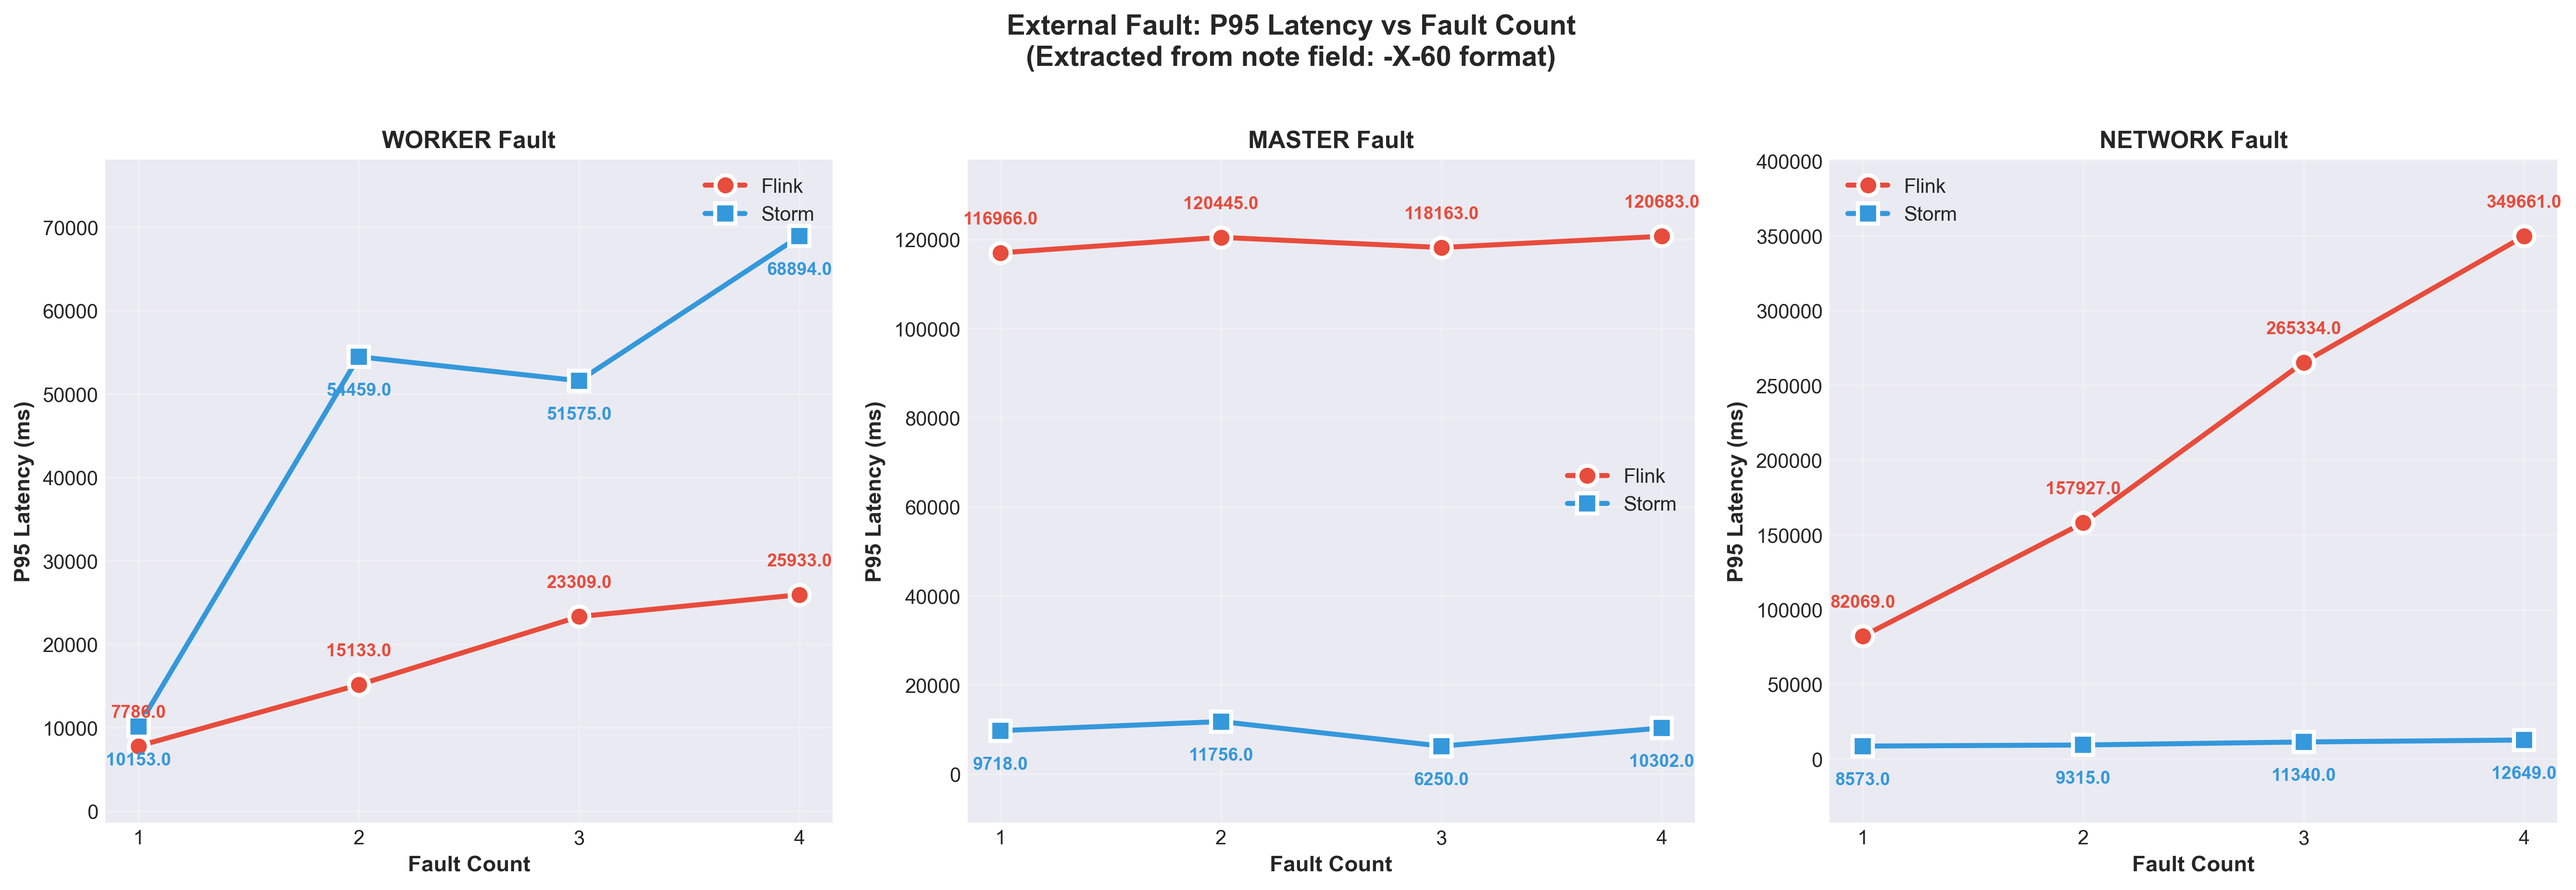
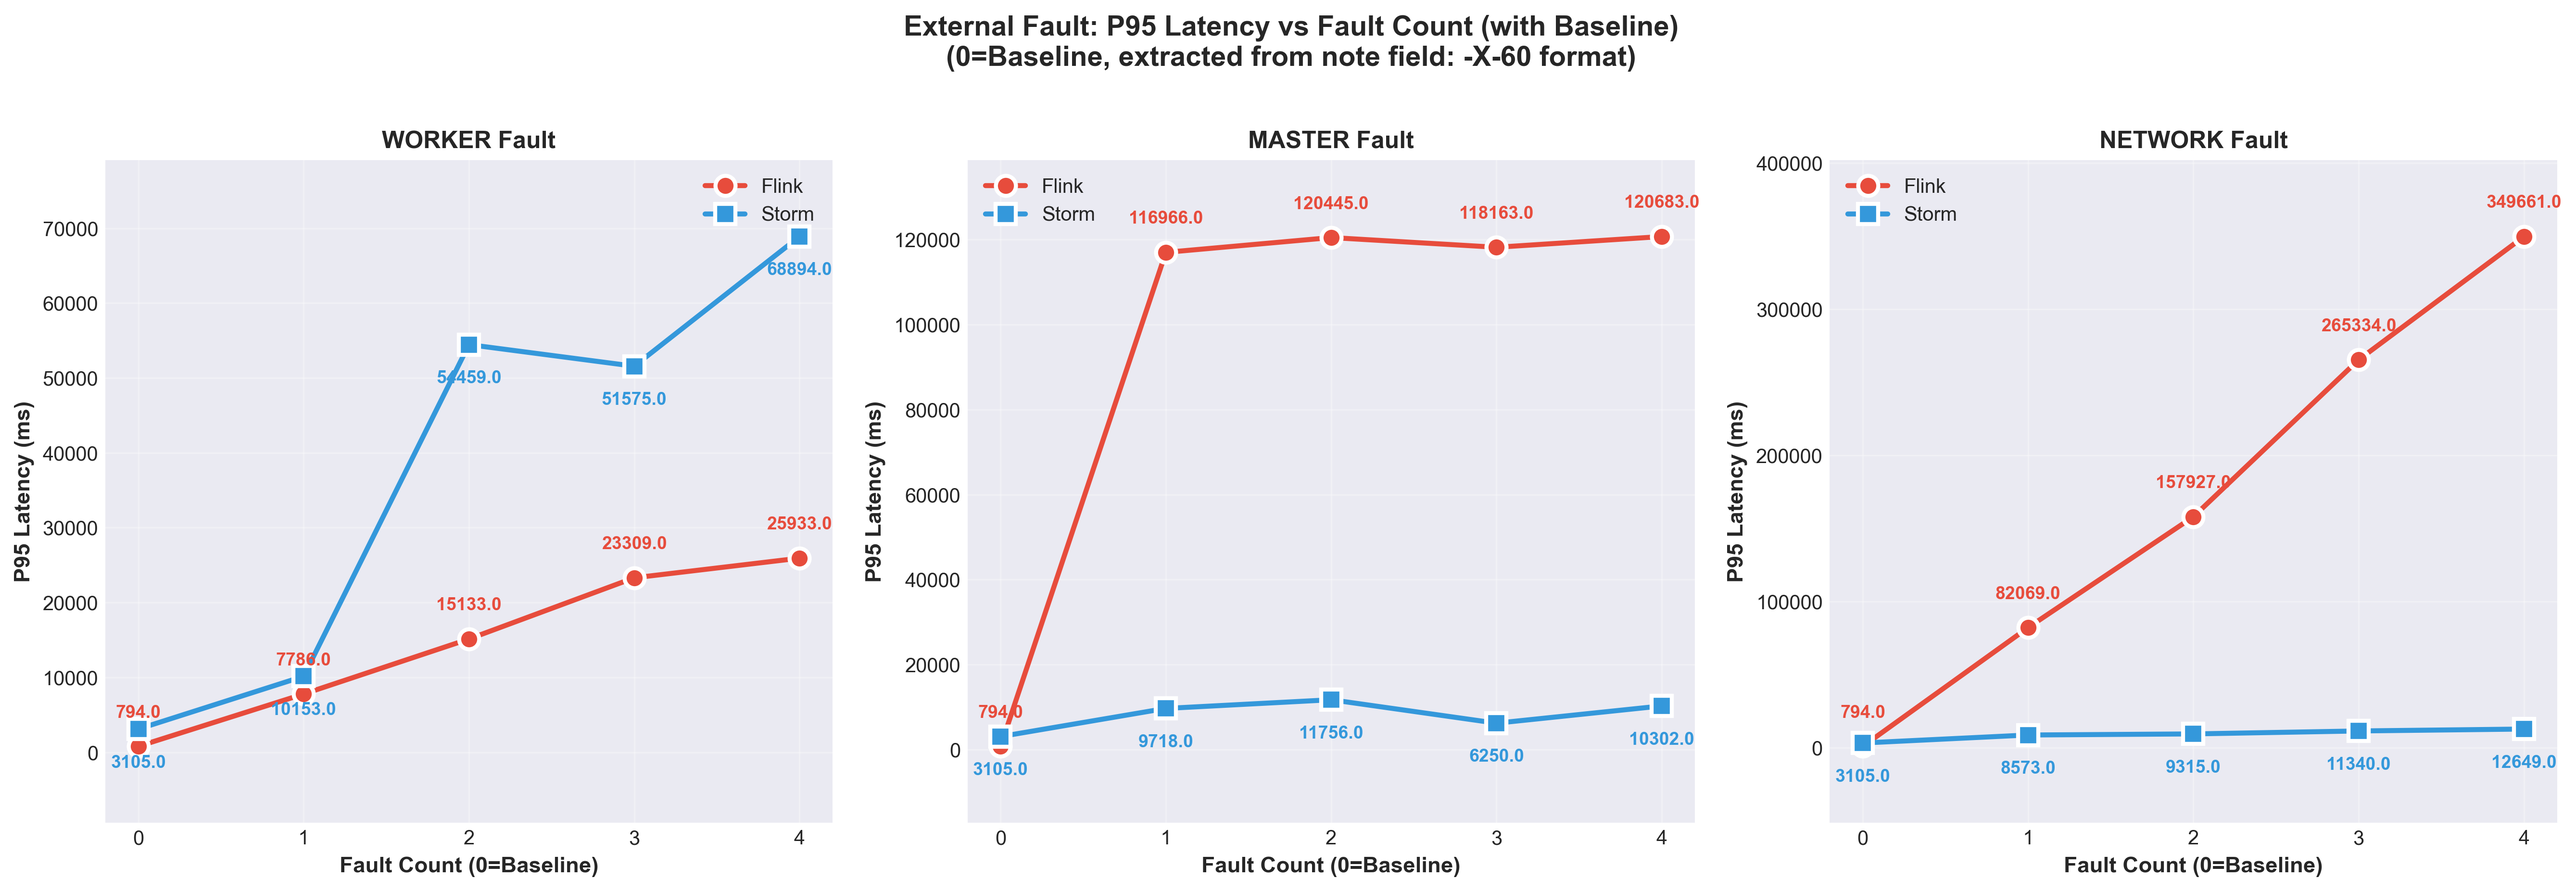
修改报告

diff --git a/data/analyze_experiment_results.py b/data/analyze_experiment_results.py
@@ -1033,19 +1033,40 @@ class ExperimentAnalyzer:
         plt.close()
 
     def plot_external_fault_p95_latency_by_count(self):
-        """图表9: 外部故障延迟对比 vs 故障次数（融合平均/P95/P99）"""
+        """图表9: 外部故障P95延迟 vs 故障次数（折线图，包含基线）"""
         if not self.external_fault_data:
             return
-        print("\n📈 生成图表9: 外部故障延迟对比 vs 故障次数（融合图）...")
-        self._plot_combined_latency_by_count()
+        print("\n📈 生成图表9: 外部故障P95延迟 vs 故障次数...")
+        self._plot_single_latency_by_count(
+            "p95_latency",
+            "P95 Latency (ms)",
+            "09_external_fault_p95_latency_by_count.png",
+            "External Fault: P95 Latency vs Fault Count",
+        )
 
     def plot_external_fault_p99_latency_by_count(self):
-        """图表10: 外部故障P99延迟 vs 故障次数（折线图）- 已合并到图表9"""
-        pass  # 功能已合并到 plot_external_fault_p95_latency_by_count
+        """图表10: 外部故障P99延迟 vs 故障次数（折线图，包含基线）"""
+        if not self.external_fault_data:
+            return
+        print("\n📈 生成图表10: 外部故障P99延迟 vs 故障次数...")
+        self._plot_single_latency_by_count(
+            "p99_latency",
+            "P99 Latency (ms)",
+            "10_external_fault_p99_latency_by_count.png",
+            "External Fault: P99 Latency vs Fault Count",
+        )
 
     def plot_external_fault_avg_latency_by_count(self):
-        """图表11: 外部故障平均延迟 vs 故障次数（折线图）- 已合并到图表9"""
-        pass  # 功能已合并到 plot_external_fault_p95_latency_by_count
+        """图表11: 外部故障平均延迟 vs 故障次数（折线图，包含基线）"""
+        if not self.external_fault_data:
+            return
+        print("\n📈 生成图表11: 外部故障平均延迟 vs 故障次数...")
+        self._plot_single_latency_by_count(
+            "avg_latency",
+            "Avg Latency (ms)",
+            "11_external_fault_avg_latency_by_count.png",
+            "External Fault: Avg Latency vs Fault Count",
+        )
 
     def plot_external_fault_throughput_by_count(self):
         """图衐12: 外部故障吞吐量 vs 故障次数（折线图）"""
@@ -1241,6 +1262,143 @@ class ExperimentAnalyzer:
         print(
             f"  ✓ 保存: {self.output_dir / '09_external_fault_latency_combined_by_count.png'}"
         )
+        plt.close()
+
+    def _plot_single_latency_by_count(self, metric_name, ylabel, filename, title):
+        """单个延迟指标的按故障次数绘制（包含基线数据）"""
+        fig, axes = plt.subplots(1, 3, figsize=(18, 6))
+
+        # 获取基线数据
+        flink_baseline_value = None
+        storm_baseline_value = None
+
+        if self.baseline_data is not None:
+            flink_baseline = self.baseline_data[
+                self.baseline_data["job_type"] == "flink"
+            ].iloc[0]
+            storm_baseline = self.baseline_data[
+                self.baseline_data["job_type"] == "storm"
+            ].iloc[0]
+
+            flink_baseline_value = flink_baseline[metric_name]
+            storm_baseline_value = storm_baseline[metric_name]
+
+        for idx, (fault_type, data) in enumerate(self.external_fault_data.items()):
+            ax = axes[idx]
+
+            flink_df = data["flink"].copy()
+            flink_df["fault_count"] = flink_df["note"].apply(self.extract_fault_count)
+            flink_grouped = (
+                flink_df.groupby("fault_count")[metric_name].mean().sort_index()
+            )
+
+            storm_df = data["storm"].copy()
+            storm_df["fault_count"] = storm_df["note"].apply(self.extract_fault_count)
+            storm_grouped = (
+                storm_df.groupby("fault_count")[metric_name].mean().sort_index()
+            )
+
+            # 添加基线数据（0次故障）
+            if flink_baseline_value is not None:
+                flink_grouped = pd.concat(
+                    [pd.Series([flink_baseline_value], index=[0]), flink_grouped]
+                )
+                storm_grouped = pd.concat(
+                    [pd.Series([storm_baseline_value], index=[0]), storm_grouped]
+                )
+
+            # 绘制折线图
+            if len(flink_grouped) > 0:
+                ax.plot(
+                    flink_grouped.index,
+                    flink_grouped.values,
+                    "o-",
+                    color=FLINK_COLOR,
+                    linewidth=2.5,
+                    markersize=10,
+                    label="Flink",
+                    markeredgecolor="white",
+                    markeredgewidth=2,
+                )
+
+            if len(storm_grouped) > 0:
+                ax.plot(
+                    storm_grouped.index,
+                    storm_grouped.values,
+                    "s-",
+                    color=STORM_COLOR,
+                    linewidth=2.5,
+                    markersize=10,
+                    label="Storm",
+                    markeredgecolor="white",
+                    markeredgewidth=2,
+                )
+
+            # 计算y轴范围以确定标签偏移量
+            all_values = []
+            if len(flink_grouped) > 0:
+                all_values.extend(flink_grouped.values)
+            if len(storm_grouped) > 0:
+                all_values.extend(storm_grouped.values)
+
+            if all_values:
+                y_range = max(all_values) - min(all_values)
+                offset = y_range * 0.05  # 5%偏移量
+
+                # 添加数值标签
+                if len(flink_grouped) > 0:
+                    for x, y in zip(flink_grouped.index, flink_grouped.values):
+                        ax.text(
+                            x,
+                            y + offset,
+                            f"{y:.1f}",
+                            ha="center",
+                            va="bottom",
+                            fontsize=9,
+                            color=FLINK_COLOR,
+                            fontweight="bold",
+                        )
+
+                if len(storm_grouped) > 0:
+                    for x, y in zip(storm_grouped.index, storm_grouped.values):
+                        ax.text(
+                            x,
+                            y - offset,
+                            f"{y:.1f}",
+                            ha="center",
+                            va="top",
+                            fontsize=9,
+                            color=STORM_COLOR,
+                            fontweight="bold",
+                        )
+
+            ax.set_xlabel("Fault Count (0=Baseline)", fontsize=11, fontweight="bold")
+            ax.set_ylabel(ylabel, fontsize=11, fontweight="bold")
+            ax.set_title(f"{fault_type.upper()} Fault", fontsize=12, fontweight="bold")
+            ax.legend(fontsize=10)
+            ax.grid(True, alpha=0.3)
+
+            # 设置x轴刻度
+            if len(flink_grouped) > 0 or len(storm_grouped) > 0:
+                all_counts = list(flink_grouped.index) + list(storm_grouped.index)
+                ax.set_xticks(sorted(set(all_counts)))
+
+            # 自动调整y轴范围，留出标签空间
+            if all_values:
+                y_min = min(all_values)
+                y_max = max(all_values)
+                margin = y_range * 0.15
+                ax.set_ylim(y_min - margin, y_max + margin)
+
+        plt.suptitle(
+            f"{title} (with Baseline)\n(0=Baseline, extracted from note field: -X-60 format)",
+            fontsize=14,
+            fontweight="bold",
+            y=1.02,
+        )
+        plt.tight_layout()
+        plt.savefig(self.output_dir / filename, dpi=300, bbox_inches="tight")
+        print(f"  ✓ 保存: {self.output_dir / filename}")
         plt.close()
 
     def _plot_metric_by_count(self, metric_name, ylabel, filename, title):
